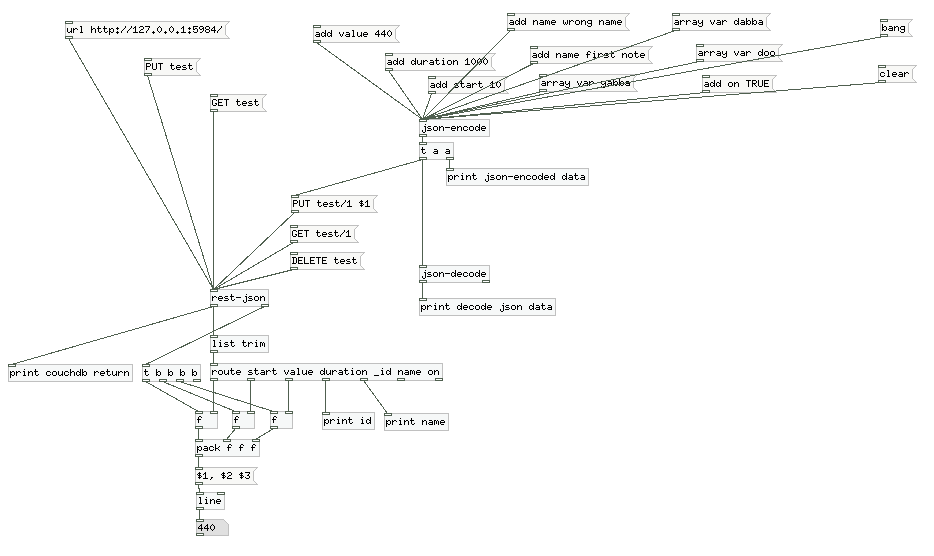
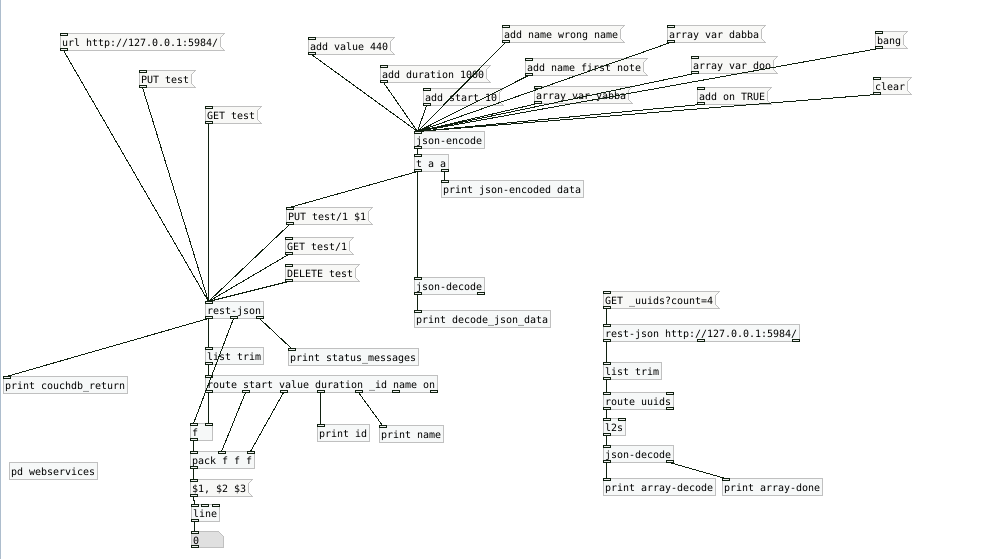
Example and manual for status code.

diff --git a/manual/index.html b/manual/index.html
@@ -118,51 +118,52 @@ array-done: bang
 		<p>Here is the output from the main example in examples/purest-json-test.pd with explanations.</p>
 		<p>First, we create the database and get info about the database:</p>
 		<pre>
-couchdb return: list ok 1
-couchdb return: list db_name test
-couchdb return: list doc_count 0
-couchdb return: list doc_del_count 0
-couchdb return: list update_seq 0
-couchdb return: list purge_seq 0
-couchdb return: list compact_running 0
-couchdb return: list disk_size 79
-couchdb return: list instance_start_time 1.31733e+15
-couchdb return: list disk_format_version 5
-couchdb return: list committed_update_seq 0
+status_messages: list PUT 201 0
+status_messages: list GET bang
+couchdb_return: list db_name test
+couchdb_return: list doc_count 0
+couchdb_return: list doc_del_count 0
+couchdb_return: list update_seq 0
+couchdb_return: list purge_seq 0
+couchdb_return: list compact_running 0
+couchdb_return: list disk_size 79
+couchdb_return: list instance_start_time 1.33686e+15
+couchdb_return: list disk_format_version 5
+couchdb_return: list committed_update_seq 0
 		</pre>
 		<p>After that, we build a JSON document and store it in the database:</p>
 		<pre>
-json-encoded data: symbol \{ "value": "440"\\, "duration": "1000"\\, "start": "10"\\, "name": "first note"\\, "var": [ "yabba"\\, "dabba"\\, "doo" ]\\, "on": "TRUE" \}
-decode json data: list value 440
-decode json data: list duration 1000
-decode json data: list start 10
-decode json data: list name first note
-decode json data: list var [ "yabba"\\, "dabba"\\, "doo" ]
-decode json data: list on 1
-couchdb return: list ok 1
-couchdb return: list id 1
-couchdb return: list rev 1-b7a3cb13c20812a4c7845e9a86f92099
+json-encoded data: symbol { "value": "440"\, "duration": "1000"\, "start": "10"\, "name": "first note"\, "var": [ "yabba"\, "dabba"\, "doo" ]\, "on": "TRUE" }
+decode_json_data: list value 440
+decode_json_data: list duration 1000
+decode_json_data: list start 10
+decode_json_data: list name first note
+decode_json_data: list var [ "yabba"\, "dabba"\, "doo" ]
+decode_json_data: list on 1
+status_messages: list PUT 201 0
 		</pre>
 		<p>Then we query the database for the stored document and use it to drive a simple ramp:</p>
 		<pre>
+status_messages: list GET bang
 id: 1
-couchdb return: list _id 1
-couchdb return: list _rev 1-b7a3cb13c20812a4c7845e9a86f92099
-couchdb return: list value 440
-couchdb return: list duration 1000
-couchdb return: list start 10
+couchdb_return: list _id 1
+couchdb_return: list _rev 1-b7a3cb13c20812a4c7845e9a86f92099
+couchdb_return: list value 440
+couchdb_return: list duration 1000
+couchdb_return: list start 10
 name: first note
-couchdb return: list name first note
-couchdb return: list var [ "yabba"\\, "dabba"\\, "doo" ]
-couchdb return: list on 1
+couchdb_return: list name first note
+couchdb_return: list var [ "yabba"\, "dabba"\, "doo" ]
+couchdb_return: list on 1
 		</pre>
 		<p>In the end we delete the database:</p>
 		<pre>
-couchdb return: list ok 1
+status_messages: list DELETE bang
+couchdb_return: list ok 1
 		</pre>
 		<h2>Author and License</h2>
 		<p>Author: Thomas Mayer <thomas@residuum.org></p>
-		<p>Copyright (c) 2011 Thomas Mayer</p>
+		<p>Copyright (c) 2012 Thomas Mayer</p>
 		<p>Permission is hereby granted, free of charge, to any person obtaining a copy
 		of this software and associated documentation files (the "Software"), to deal
 		in the Software without restriction, including without limitation the rights
